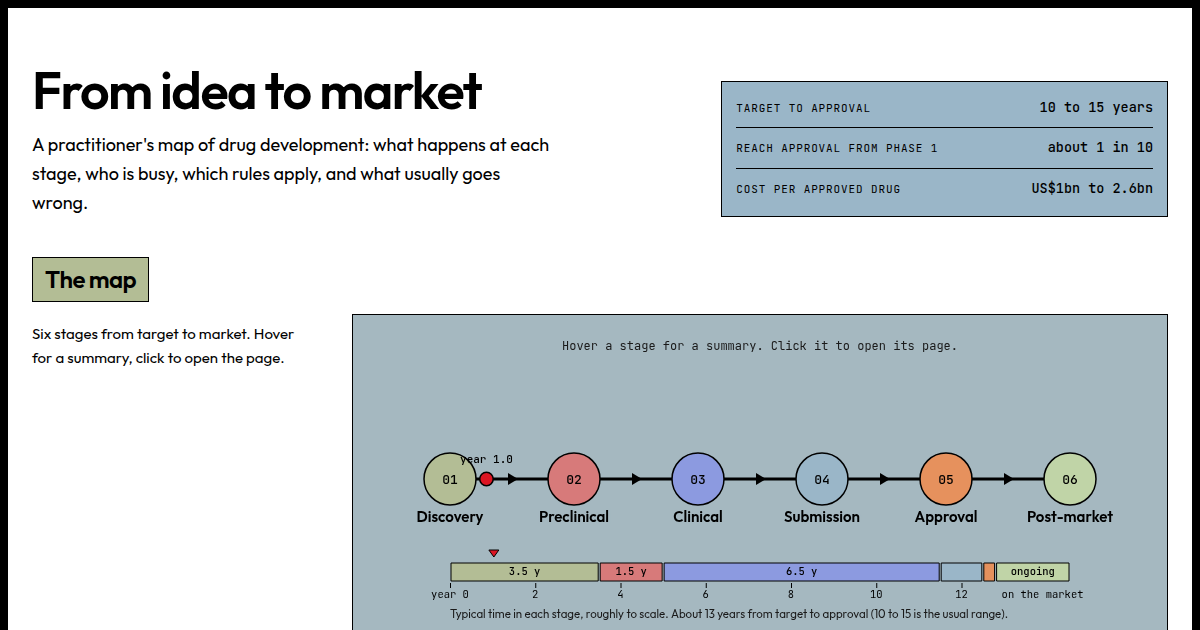
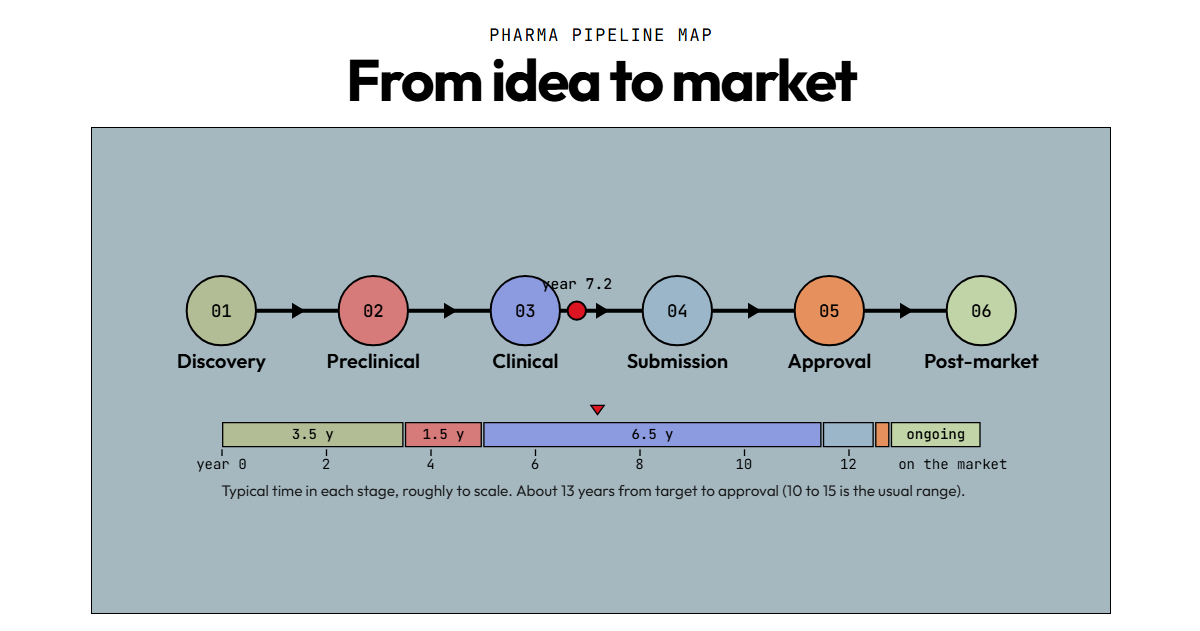
Link preview: map with headline

diff --git a/index.html b/index.html
@@ -7,12 +7,12 @@
 <meta property="og:type" content="website">
 <meta property="og:title" content="Pharma Pipeline Map">
 <meta property="og:description" content="An interactive map of how a drug goes from idea to market: stages, functions, GxP, modality, dosage form and the systems around them.">
-<meta property="og:image" content="https://khanahmadharis.github.io/Pharma-Pipeline-Map/og-image.png">
+<meta property="og:image" content="https://khanahmadharis.github.io/Pharma-Pipeline-Map/og-image.png?v=2">
 <meta property="og:url" content="https://khanahmadharis.github.io/Pharma-Pipeline-Map/">
 <meta name="twitter:card" content="summary_large_image">
 <meta name="twitter:title" content="Pharma Pipeline Map">
 <meta name="twitter:description" content="An interactive map of how a drug goes from idea to market: stages, functions, GxP, modality, dosage form and the systems around them.">
-<meta name="twitter:image" content="https://khanahmadharis.github.io/Pharma-Pipeline-Map/og-image.png">
+<meta name="twitter:image" content="https://khanahmadharis.github.io/Pharma-Pipeline-Map/og-image.png?v=2">
 <meta name="description" content="Interactive practitioner reference: how a drug goes from idea to market, organised by modality, dosage form and stage, with functions, GxP, systems and glossary.">
 <style>
[1 lines of base64/hex data omitted]
